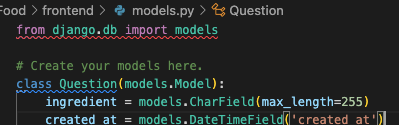
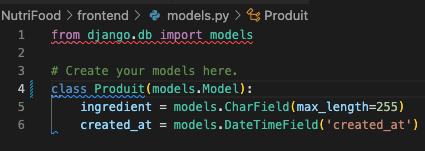
Exercice 4

diff --git a/frontend/migrations/0002_rename_question_produit.py b/frontend/migrations/0002_rename_question_produit.py
@@ -1,0 +1,17 @@
+# Generated by Django 4.1.7 on 2023-03-20 11:30
+
+from django.db import migrations
+
+
+class Migration(migrations.Migration):
+
+    dependencies = [
+        ('frontend', '0001_initial'),
+    ]
+
+    operations = [
+        migrations.RenameModel(
+            old_name='Question',
+            new_name='Produit',
+        ),
+    ]

diff --git a/frontend/models.py b/frontend/models.py
@@ -1,6 +1,6 @@
 from django.db import models
 
 # Create your models here.
-class Question(models.Model):
+class Produit(models.Model):
     ingredient = models.CharField(max_length=255)
     created_at = models.DateTimeField('created_at')
